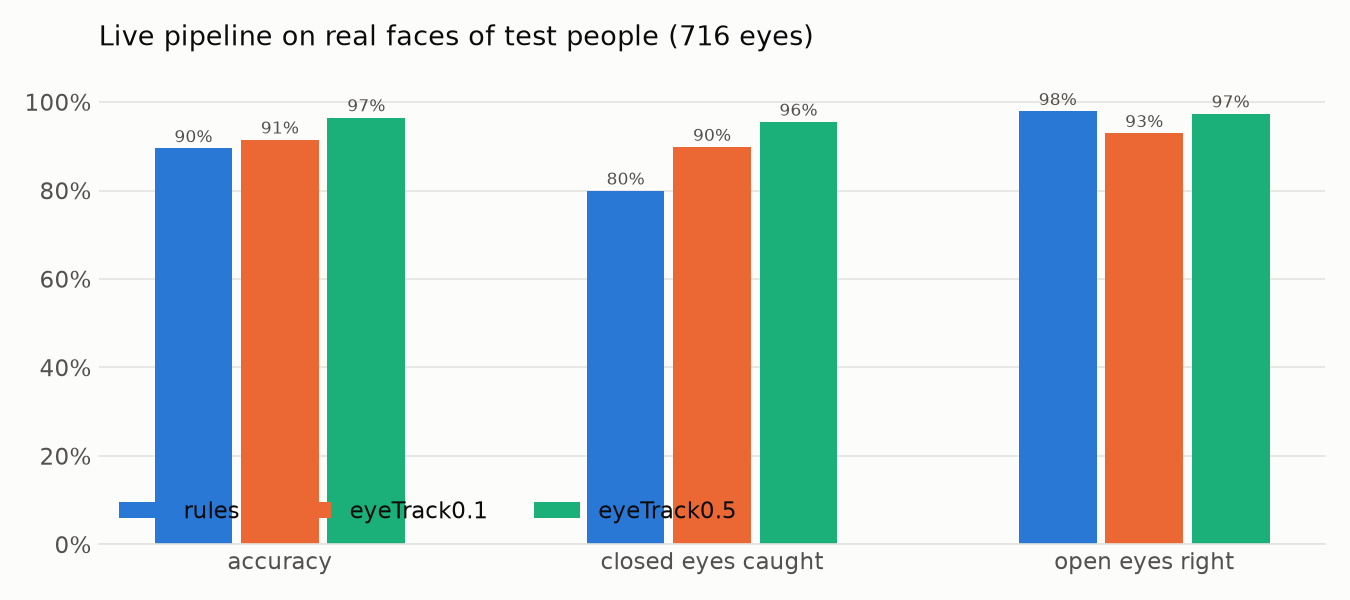
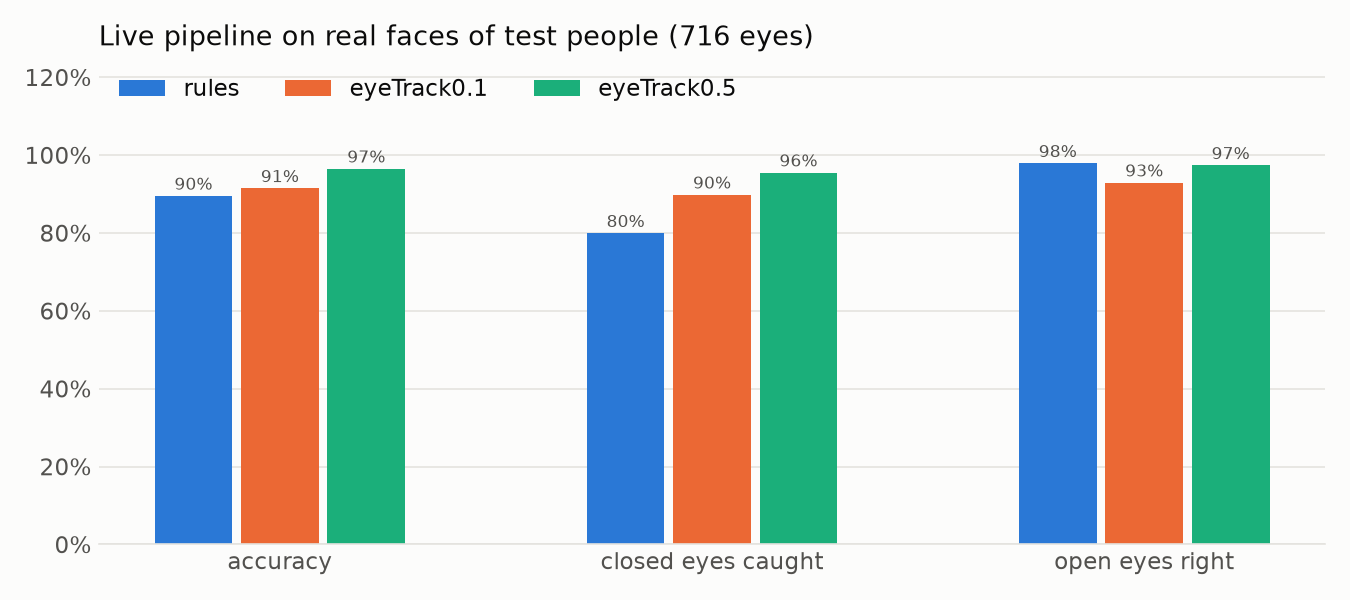
Live pipeline chart: legend above the bars

diff --git a/scripts/check_live_pipeline.py b/scripts/check_live_pipeline.py
@@ -118,9 +118,9 @@ def main():
             ax.annotate(f"{bar.get_height():.0%}", (bar.get_x() + bar.get_width() / 2, bar.get_height()), xytext=(0, 3),
                         textcoords="offset points", ha="center", fontsize=8, color=COLORS["muted"])
     ax.set_xticks(x, labels)
-    ax.set_ylim(0, 1.1)
+    ax.set_ylim(0, 1.25)
     ax.yaxis.set_major_formatter(plt.FuncFormatter(lambda v, _: f"{v:.0%}"))
-    ax.legend(frameon=False, ncols=3, loc="lower left")
+    ax.legend(frameon=False, ncols=3, loc="upper left")
     ax.set_title(f"Live pipeline on real faces of test people ({len(y)} eyes)", loc="left", fontsize=13)
     finish(ax)
     fig.tight_layout()
